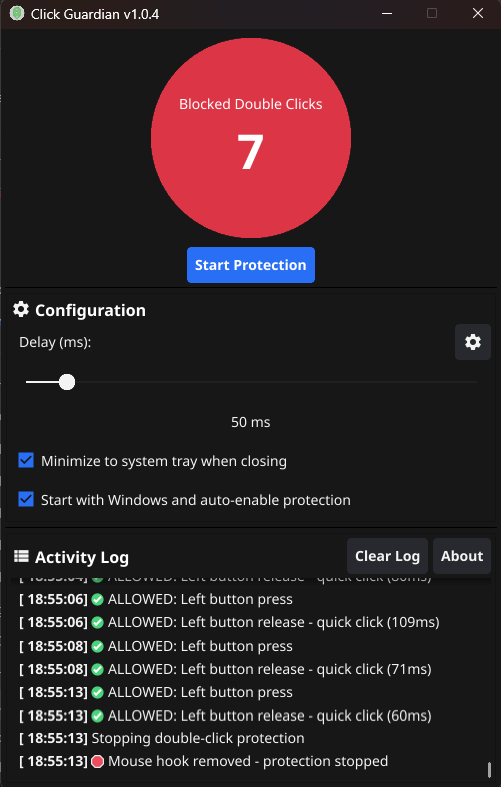
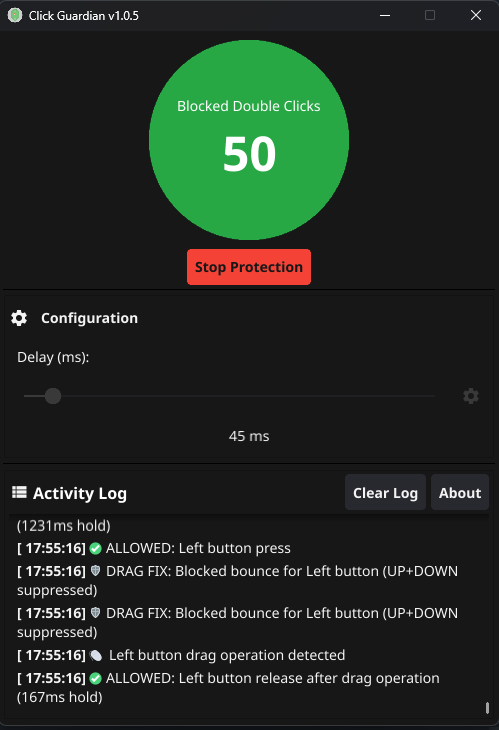
docs: update README and add user guide with new features
- Add detailed user guide explaining all features and settings
- Update README with new drag fix and high privilege pause features
- Include important anti-cheat warning for gamers

diff --git a/docs/USER_GUIDE.md b/docs/USER_GUIDE.md
@@ -1,0 +1,141 @@
+# Welcome to Click Guardian!
+
+This guide will help you get started and explain what each part of the app does.
+
+---
+
+## Main Screen Overview
+
+<p align="center">
+  <img src="https://raw.githubusercontent.com/AHS12/click-guardian/refs/heads/main/image.png" alt="Screenshot 1" width="320" style="display:inline-block; margin-right:10px;">
+  <img src="https://raw.githubusercontent.com/AHS12/click-guardian/refs/heads/main/image1.png" alt="Screenshot 2" width="320" style="display:inline-block;">
+</p>
+
+---
+
+### 1. Blocked Double Clicks Counter
+
+- The large circle shows how many double clicks have been blocked since you started protection.
+- **When protection is active, the circle is green. When protection is stopped, the circle turns red**
+
+---
+
+### 2. Start/Stop Protection Button
+
+- **Start Protection**: Click to begin blocking accidental double clicks.
+- **Stop Protection**: Click to stop protection and allow all clicks as normal.
+
+---
+
+### 3. Settings Configuration
+
+Click the **Settings** (gear icon) button to open the configuration window. The settings are organized into three tabs:
+
+#### ⚙ General Tab
+
+- **Double-Click Threshold:**
+  Adjust how much time (in milliseconds) must pass between clicks to avoid blocking.
+  - Lower values = faster double clicks allowed
+  - Higher values = stricter blocking
+
+- **Application Behavior:**
+  - **Minimize to system tray when closing:** If checked, closing the window will minimize the app to the tray instead of exiting.
+  - **Start with Windows:** If checked, Click Guardian will launch automatically when you start your computer.
+
+#### 🖱 Buttons Tab
+
+Select which mouse buttons you want to protect from accidental double-clicks. You can toggle protection individually for:
+
+- **Left Mouse Button**
+- **Right Mouse Button**
+- **Middle Mouse Button**
+- **Mouse Button 4 (XBUTTON1)**
+- **Mouse Button 5 (XBUTTON2)**
+
+#### 🛠 Advanced Tab
+
+*These settings help fix faulty mouse hardware that drops items while dragging.*
+
+**Drag Fix (Anti-Bounce):**
+- **Enable Drag Fix (Experimental):** Turns on protection against accidental drops during drags.
+- **Drag Fix Threshold:** Adjusts the sensitivity for detecting a "bouncing" switch release.
+  - *Problem:* A faulty mouse switch might momentarily "release" while you are dragging a file.
+  - *Solution:* This feature ignores that momentary release if you re-click immediately.
+
+**High Privilege Pause:**
+- **High Privilege Pause Duration:** Sets how long protection is paused after interacting with an Admin window.
+  - *Problem:* Windows security can block the app on "Administrator" programs (e.g., Task Manager), causing stuck drags.
+  - *Solution:* Pauses protection when interacting with these windows.
+
+---
+
+### 4. Activity Log
+
+- Shows a real-time log of all allowed and blocked clicks, with timestamps and reasons.
+- **Clear Log:** Removes all entries from the log.
+- **About:** Shows information about the app.
+
+---
+
+## Quick Start
+
+1. Set your preferred delay using the slider.
+2. Click **Start Protection**.
+3. Watch the counter and log to see how many double clicks are blocked.
+4. To stop, click **Stop Protection**.
+
+---
+
+## ⚠ Important Anti-Cheat Warning
+
+**MULTIPLAYER GAMING COMPATIBILITY NOTICE**
+
+This application uses low-level mouse hooks that may be detected by anti-cheat systems as potentially malicious software. **Use with caution when playing multiplayer games**.
+
+### Anti-Cheat Systems That May Flag This Application:
+
+- **BattlEye** (PUBG, Rainbow Six Siege, Fortnite, etc.)
+- **EasyAntiCheat** (Apex Legends, Fall Guys, Rocket League, etc.)
+- **Vanguard** (Valorant) - _Extremely strict detection_
+- **VAC** (Steam games like CS2, Dota 2, etc.)
+- **FairFight/PunkBuster** (Battlefield series, etc.)
+
+### Recommendations for Gamers:
+
+1. **Stop Protection Before Gaming**: Always disable Click Guardian before launching multiplayer games
+2. **Exit Completely**: Use "Quit Application" from the system tray rather than just minimizing
+3. **Test in Single Player**: If unsure, test with single-player games first
+4. **Create Gaming Profile**: Consider using Windows Task Scheduler to automatically stop the service during gaming hours
+
+### Why This Happens:
+
+Anti-cheat systems flag applications that:
+
+- Install system-wide mouse hooks
+- Block or modify mouse input events
+- Monitor global system activity
+
+While Click Guardian is legitimate accessibility software, its technical methods are similar to those used by cheating software.
+
+**I am not responsible for any account bans or penalties resulting from anti-cheat detection. Use at your own risk with online games.**
+
+---
+
+## Tips
+
+- The default delay (50–100ms) works well for most users.
+- For gaming, try a lower delay.
+- For accessibility, use a higher delay.
+
+---
+
+## System Tray
+
+- When minimized, Click Guardian stays in your system tray.
+- Right-click the tray icon for quick access to start/stop protection or exit the app.
+
+---
+
+## Need Help?
+
+If you have questions or issues, please open an issue on GitHub!

diff --git a/README.md b/README.md
@@ -38,7 +38,9 @@
 
 - 🎯 **Strict Double-Click Blocking**: Ensures no double-clicks are allowed under any circumstances
 - ⚙ **Customizable Delay**: Set delay from 5ms to 500ms (default: 50ms)
-- 🛡 **Adaptive Protection**: Automatically increases delay when faulty mouse hardware is detected (never decreases below user setting)
+- � **Drag Fix (Anti-Bounce)**: Prevents accidental drops by ignoring momentary release signals (bouncing) during drags
+- ⏸ **High Privilege Pause**: Automatically pauses protection when interacting with Admin/System windows to prevent stuck drags
+- � **Adaptive Protection**: Automatically increases delay when faulty mouse hardware is detected (never decreases below user setting)
 - 📊 **Real-time Logging**: Detailed logs for allowed and blocked clicks, including reasons and timestamps
 - 🖥 **Modern GUI**: Clean and intuitive Fyne-based interface
 - 🚀 **Lightweight**: Minimal resource usage
@@ -51,7 +53,8 @@ The application installs a low-level mouse hook that monitors left and right mou
 1. **First Click**: Always allowed and logged
 2. **Subsequent Clicks**: Strictly blocked if they occur within the specified delay period for that specific button
 3. **Independent Timers**: Left and right mouse buttons have separate timers - switching between buttons doesn't reset the protection
-4. **Adaptive Protection**: Automatically detects faulty mouse hardware patterns (like low-pressure clicks) and increases the protection delay accordingly - never reduces below your selected setting
+4. **Drag Fix**: If a button release is detected during a drag, it is momentarily held. If the button is pressed again immediately (bounce), the drag continues uninterrupted.
+5. **Adaptive Protection**: Automatically detects faulty mouse hardware patterns (like low-pressure clicks) and increases the protection delay accordingly - never reduces below your selected setting
 
 The adaptive system ensures maximum protection against problematic mice while maintaining your chosen baseline delay for normal operation.
 
